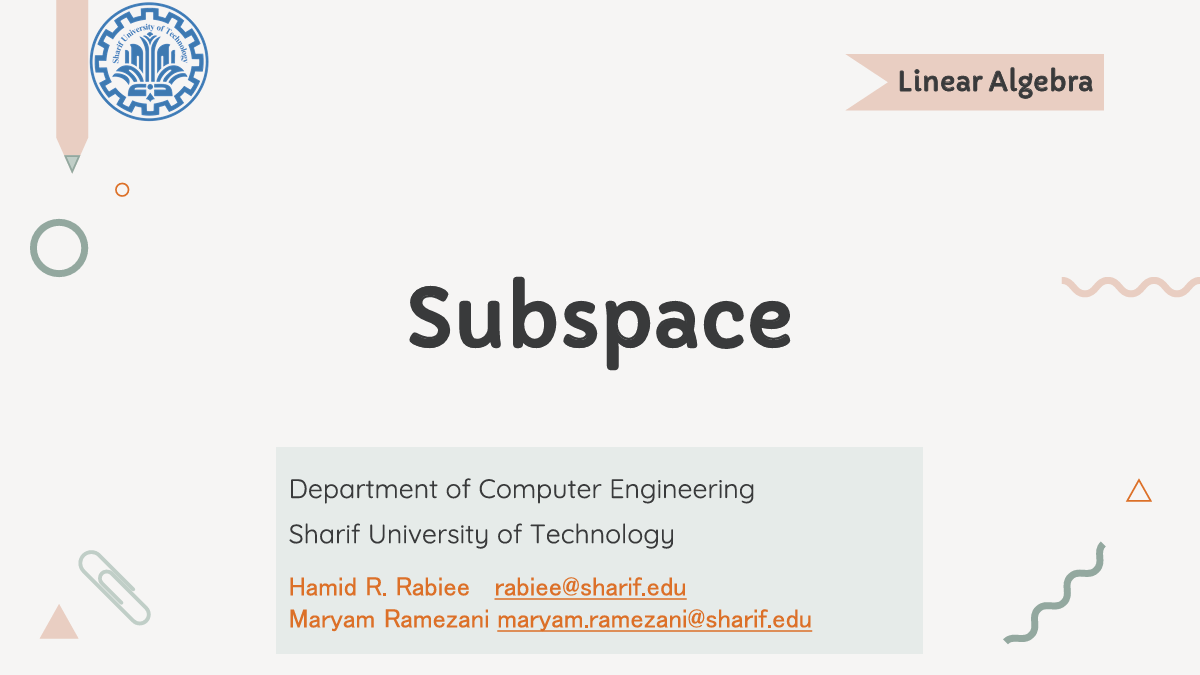
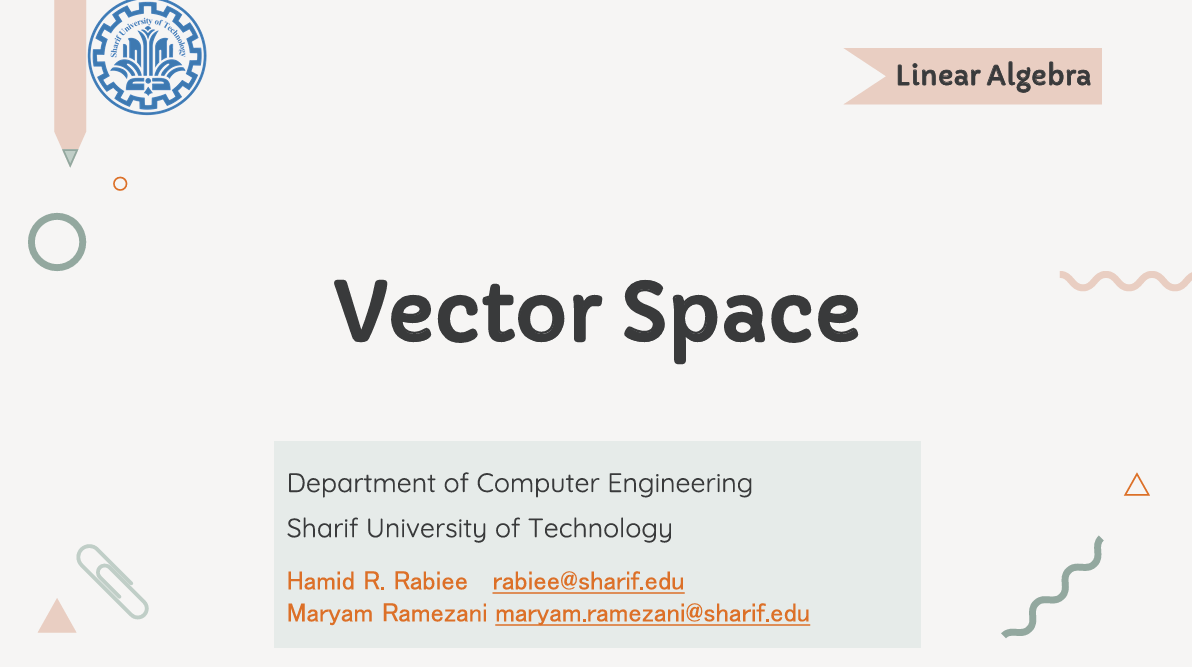
add lec2

diff --git a/_lectures/2_Vector_Space.md b/_lectures/2_Vector_Space.md
@@ -1,0 +1,12 @@
+---
+type: lecture
+date: 2026-10-4T23:00:00+03:30
+title: Vector Space
+tldr: "Field, Vector Space, Linear Combination, Span-Linear Hull"
+thumbnail: /static_files/presentations/lec2.jpg
+links: 
+    - url: /static_files/presentations/2-Vector Space.pdf
+      name: slides
+hide_from_announcments: false
+
+---
